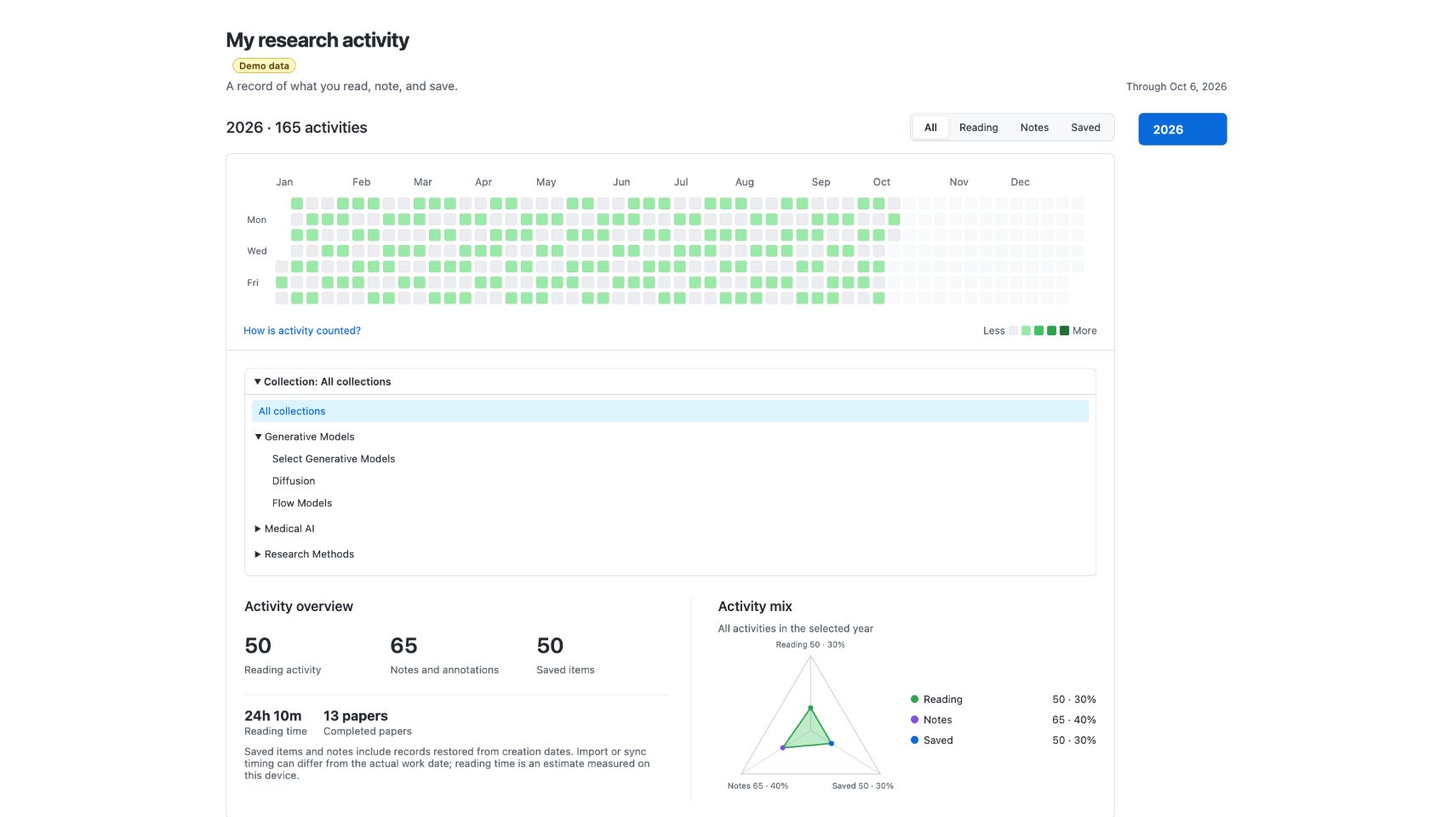
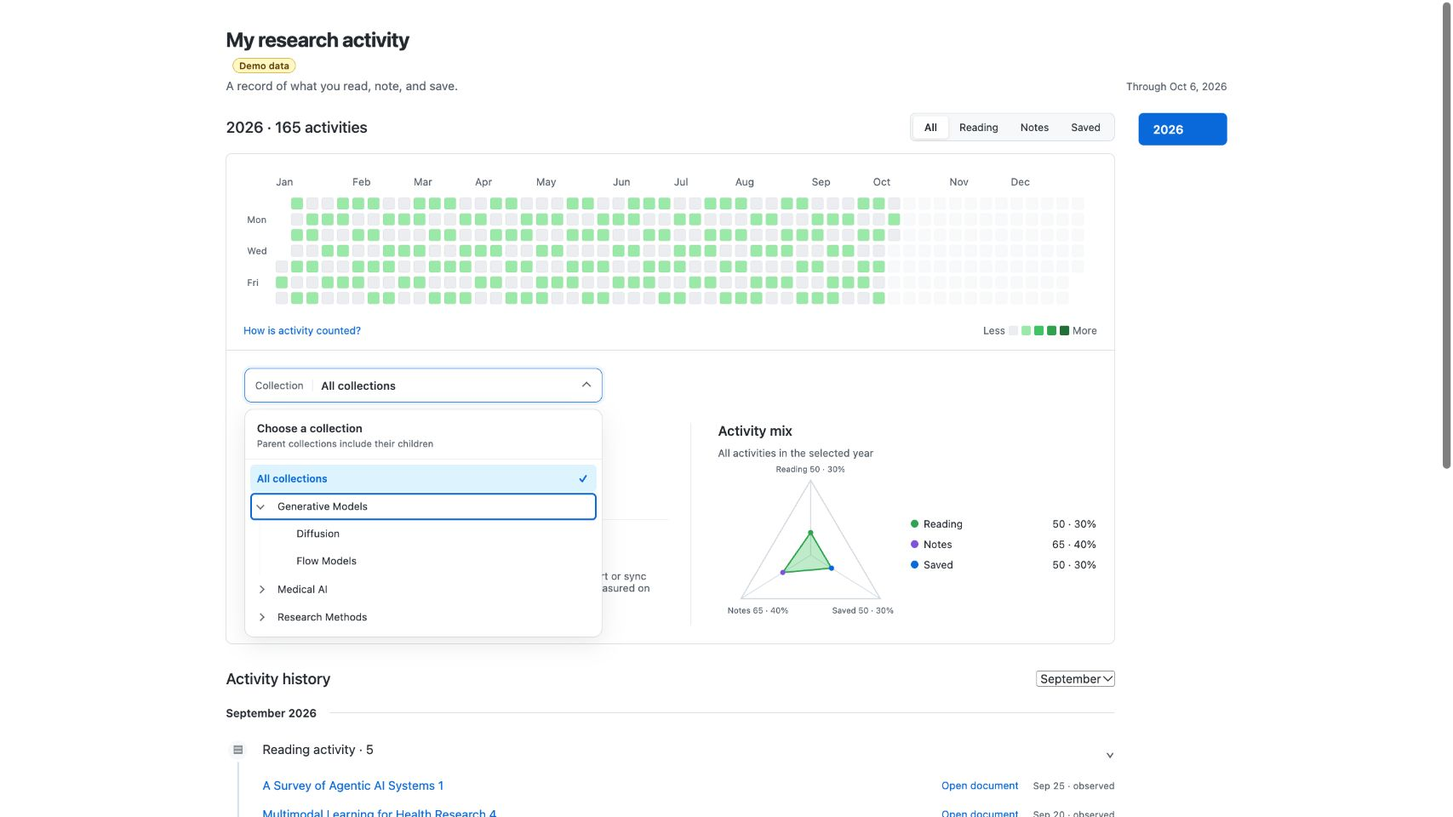
fix: refresh activity dashboard assets

diff --git a/activity.css b/activity.css
@@ -1,1 +1,28 @@
-:root{--ra-ink:#24292f;--ra-muted:#57606a;--ra-line:#d0d7de;--ra-soft:#f6f8fa;--ra-blue:#0969da;--ra-green-0:#ebedf0;--ra-green-1:#9be9a8;--ra-green-2:#40c463;--ra-green-3:#30a14e;--ra-green-4:#216e39;--ra-note:#8250df;--ra-save:#0969da}*{box-sizing:border-box}body{margin:0;background:#fff;color:var(--ra-ink);font:14px -apple-system,BlinkMacSystemFont,"Segoe UI",sans-serif}button,select{font:inherit;color:inherit;cursor:pointer}button:focus-visible,select:focus-visible,a:focus-visible{outline:3px solid var(--ra-blue);outline-offset:2px}.ra-page{max-width:1240px;margin:0 auto;padding:32px}.ra-heading{display:flex;align-items:end;justify-content:space-between;gap:20px;margin-bottom:24px}.ra-heading h1{font-size:24px;letter-spacing:-.5px;margin:0 0 7px}.ra-heading p{margin:0;color:var(--ra-muted)}.ra-layout{display:grid;grid-template-columns:minmax(0,1fr) 104px;gap:28px}.ra-topline,.ra-timeline-head{display:flex;align-items:center;justify-content:space-between;gap:16px;margin-bottom:14px}.ra-topline h2,.ra-timeline-head h2{font-size:18px;font-weight:500;margin:0}.ra-filters{display:flex;padding:3px;border:1px solid var(--ra-line);border-radius:7px;background:var(--ra-soft)}.ra-filters button{border:0;border-radius:4px;background:transparent;padding:6px 13px;font-size:12px}.ra-filters button[aria-pressed="true"]{background:#fff;box-shadow:0 1px 3px #0002;font-weight:600}.ra-panel{border:1px solid var(--ra-line);border-radius:7px;overflow:hidden}.ra-heatmap{padding:23px 20px 16px}.ra-calendar{overflow-x:auto}.ra-calendar svg{display:block;width:100%;min-width:720px}.ra-calendar-cell{cursor:pointer;stroke:#1f23280d;stroke-width:1}.ra-calendar-cell:hover,.ra-calendar-cell:focus{stroke:var(--ra-ink);stroke-width:1.5;outline:none}.ra-calendar-cell[data-selected="true"]{stroke:var(--ra-blue);stroke-width:2}.ra-calendar-cell[data-future="true"]{cursor:default;opacity:.35}.ra-legend-row{display:flex;justify-content:space-between;align-items:center;gap:10px;margin-top:13px;color:var(--ra-muted);font-size:12px}.ra-legend{display:flex;align-items:center;gap:4px;white-space:nowrap}.ra-swatch{width:11px;height:11px;border-radius:2px}.ra-link{border:0;padding:0;background:transparent;color:var(--ra-blue)}.ra-overview{border-top:1px solid var(--ra-line);padding:21px}.ra-collections{display:flex;gap:8px;flex-wrap:wrap;margin-bottom:26px}.ra-chip,.ra-button{border:1px solid var(--ra-line);border-radius:6px;background:#fff;padding:7px 11px;font-size:12px}.ra-chip[aria-pressed="true"]{border-color:var(--ra-blue);background:#ddf4ff;color:var(--ra-blue)}.ra-summary{display:grid;grid-template-columns:1.18fr 1fr;gap:32px}.ra-summary-left{border-right:1px solid var(--ra-line);padding-right:25px}.ra-summary h3{font-size:16px;font-weight:550;margin:0}.ra-stats{display:grid;grid-template-columns:repeat(3,1fr);gap:16px;margin:22px 0}.ra-stat b{display:block;font-size:25px;font-weight:600;font-variant-numeric:tabular-nums;margin-bottom:5px}.ra-stat span,.ra-small{font-size:12px;color:var(--ra-muted)}.ra-completion{display:flex;gap:19px;border-top:1px solid #eaeef2;padding-top:15px}.ra-completion b{display:block;font-size:16px}.ra-ratio-copy{margin:10px 0 0;color:var(--ra-muted);font-size:12px}.ra-triangle-wrap{display:grid;grid-template-columns:minmax(210px,1fr) minmax(160px,1fr);align-items:center;gap:9px;margin-top:4px}.ra-triangle{width:100%;max-width:275px;margin:auto}.ra-triangle text{font-size:11px;fill:var(--ra-muted)}.ra-ratio-list{display:grid;gap:10px}.ra-ratio-item{display:flex;justify-content:space-between;gap:8px;font-size:12px}.ra-ratio-item i{display:inline-block;width:9px;height:9px;border-radius:50%;margin-right:6px}.ra-years button{display:block;width:100%;border:0;border-radius:6px;background:none;text-align:left;padding:11px 17px;margin-bottom:7px;color:var(--ra-muted)}.ra-years button[aria-pressed="true"]{background:var(--ra-blue);color:#fff;font-weight:600}.ra-timeline{margin-top:30px}.ra-month{display:flex;align-items:center;gap:15px;font-size:13px;font-weight:600;margin:22px 0}.ra-month:after{content:"";height:1px;background:var(--ra-line);flex:1}.ra-event{position:relative;margin-left:13px;padding:0 0 25px 28px;border-left:2px solid #d8dee4}.ra-event-icon{position:absolute;left:-15px;top:0;width:28px;height:28px;border:3px solid #fff;border-radius:50%;background:var(--ra-soft);display:grid;place-items:center;color:var(--ra-muted)}.ra-event summary{display:flex;justify-content:space-between;gap:10px;cursor:pointer;padding-top:4px;font-size:15px;list-style:none}.ra-event summary:after{content:"⌄";font-size:18px;color:var(--ra-muted)}.ra-activity-list{margin-top:13px}.ra-activity{display:grid;grid-template-columns:minmax(0,1fr) auto auto;align-items:center;gap:14px;padding:7px 0}.ra-activity-title{border:0;background:transparent;padding:0;text-align:left;color:var(--ra-blue);white-space:nowrap;overflow:hidden;text-overflow:ellipsis}.ra-action{border:0;background:transparent;color:var(--ra-blue);font-size:12px;padding:3px}.ra-date{font-size:11px;color:var(--ra-muted);font-variant-numeric:tabular-nums}.ra-empty,.ra-error{padding:26px 0;color:var(--ra-muted)}.ra-error{color:#cf222e}.ra-error .ra-button{margin-left:12px}.ra-dialog{border:1px solid var(--ra-line);border-radius:10px;max-width:520px;padding:24px;box-shadow:0 15px 70px #0002}.ra-dialog::backdrop{background:#1f23284d}.ra-dialog h3{margin-top:0}.ra-dialog p{line-height:1.6;color:var(--ra-muted)}.ra-dialog .ra-button{float:right}.ra-tooltip{position:fixed;display:none;z-index:4;pointer-events:none;padding:8px 10px;background:#24292f;color:#fff;border-radius:6px;font-size:12px;box-shadow:0 3px 12px #0002}.ra-hidden{display:none!important}@media(max-width:900px){.ra-page{padding:22px 18px}.ra-heading{align-items:start;flex-direction:column}.ra-layout{grid-template-columns:1fr;gap:12px}.ra-years{display:flex;gap:8px;overflow-x:auto;grid-row:1}.ra-years button{width:auto;padding:8px 18px;white-space:nowrap}.ra-topline{align-items:start;flex-direction:column}.ra-summary{grid-template-columns:1fr;gap:24px}.ra-summary-left{padding:0;border-right:0}.ra-triangle-wrap{grid-template-columns:1fr}.ra-heatmap{padding:19px 13px}.ra-stats{gap:10px}.ra-calendar-cell{min-height:12px}}.ra-collection-picker{display:block;margin:0 0 26px;border:1px solid var(--ra-line);border-radius:6px;background:#fff}.ra-collection-picker>summary{padding:8px 11px;cursor:pointer;font-size:12px;font-weight:600}.ra-collection-picker>summary:focus-visible,.ra-collection-branch>summary:focus-visible{outline:3px solid var(--ra-blue);outline-offset:2px}.ra-collection-choices{max-height:280px;overflow:auto;padding:6px 8px 8px;border-top:1px solid var(--ra-line)}.ra-collection-branch{margin:4px 0}.ra-collection-branch>summary{padding:6px 4px;cursor:pointer;font-size:12px}.ra-collection-select:hover,.ra-collection-select[aria-pressed="true"]{background:#ddf4ff!important;color:var(--ra-blue)}.ra-collection-branch-content{padding-left:16px}.ra-collection-select{display:block;width:100%;border:0;border-radius:4px;background:transparent;padding:6px 8px;text-align:left;font-size:12px}.ra-collection-picker summary:focus-visible,.ra-collection-branch summary:focus-visible{outline:3px solid var(--ra-blue);outline-offset:2px}
+:root{--ra-ink:#24292f;--ra-muted:#57606a;--ra-line:#d0d7de;--ra-soft:#f6f8fa;--ra-blue:#0969da;--ra-green-0:#ebedf0;--ra-green-1:#9be9a8;--ra-green-2:#40c463;--ra-green-3:#30a14e;--ra-green-4:#216e39;--ra-note:#8250df;--ra-save:#0969da}*{box-sizing:border-box}body{margin:0;background:#fff;color:var(--ra-ink);font:14px -apple-system,BlinkMacSystemFont,"Segoe UI",sans-serif}button,select{font:inherit;color:inherit;cursor:pointer}button:focus-visible,select:focus-visible,a:focus-visible{outline:3px solid var(--ra-blue);outline-offset:2px}.ra-page{max-width:1240px;margin:0 auto;padding:32px}.ra-heading{display:flex;align-items:end;justify-content:space-between;gap:20px;margin-bottom:24px}.ra-heading h1{font-size:24px;letter-spacing:-.5px;margin:0 0 7px}.ra-heading p{margin:0;color:var(--ra-muted)}.ra-layout{display:grid;grid-template-columns:minmax(0,1fr) 104px;gap:28px}.ra-topline,.ra-timeline-head{display:flex;align-items:center;justify-content:space-between;gap:16px;margin-bottom:14px}.ra-topline h2,.ra-timeline-head h2{font-size:18px;font-weight:500;margin:0}.ra-filters{display:flex;padding:3px;border:1px solid var(--ra-line);border-radius:7px;background:var(--ra-soft)}.ra-filters button{border:0;border-radius:4px;background:transparent;padding:6px 13px;font-size:12px}.ra-filters button[aria-pressed="true"]{background:#fff;box-shadow:0 1px 3px #0002;font-weight:600}.ra-panel{border:1px solid var(--ra-line);border-radius:7px;overflow:hidden}.ra-heatmap{padding:23px 20px 16px}.ra-calendar{overflow-x:auto}.ra-calendar svg{display:block;width:100%;min-width:720px}.ra-calendar-cell{cursor:pointer;stroke:#1f23280d;stroke-width:1}.ra-calendar-cell:hover,.ra-calendar-cell:focus{stroke:var(--ra-ink);stroke-width:1.5;outline:none}.ra-calendar-cell[data-selected="true"]{stroke:var(--ra-blue);stroke-width:2}.ra-calendar-cell[data-future="true"]{cursor:default;opacity:.35}.ra-legend-row{display:flex;justify-content:space-between;align-items:center;gap:10px;margin-top:13px;color:var(--ra-muted);font-size:12px}.ra-legend{display:flex;align-items:center;gap:4px;white-space:nowrap}.ra-swatch{width:11px;height:11px;border-radius:2px}.ra-link{border:0;padding:0;background:transparent;color:var(--ra-blue)}.ra-overview{border-top:1px solid var(--ra-line);padding:21px}.ra-collections{display:flex;gap:8px;flex-wrap:wrap;margin-bottom:26px}.ra-chip,.ra-button{border:1px solid var(--ra-line);border-radius:6px;background:#fff;padding:7px 11px;font-size:12px}.ra-chip[aria-pressed="true"]{border-color:var(--ra-blue);background:#ddf4ff;color:var(--ra-blue)}.ra-summary{display:grid;grid-template-columns:1.18fr 1fr;gap:32px}.ra-summary-left{border-right:1px solid var(--ra-line);padding-right:25px}.ra-summary h3{font-size:16px;font-weight:550;margin:0}.ra-stats{display:grid;grid-template-columns:repeat(3,1fr);gap:16px;margin:22px 0}.ra-stat b{display:block;font-size:25px;font-weight:600;font-variant-numeric:tabular-nums;margin-bottom:5px}.ra-stat span,.ra-small{font-size:12px;color:var(--ra-muted)}.ra-completion{display:flex;gap:19px;border-top:1px solid #eaeef2;padding-top:15px}.ra-completion b{display:block;font-size:16px}.ra-ratio-copy{margin:10px 0 0;color:var(--ra-muted);font-size:12px}.ra-triangle-wrap{display:grid;grid-template-columns:minmax(210px,1fr) minmax(160px,1fr);align-items:center;gap:9px;margin-top:4px}.ra-triangle{width:100%;max-width:275px;margin:auto}.ra-triangle text{font-size:11px;fill:var(--ra-muted)}.ra-ratio-list{display:grid;gap:10px}.ra-ratio-item{display:flex;justify-content:space-between;gap:8px;font-size:12px}.ra-ratio-item i{display:inline-block;width:9px;height:9px;border-radius:50%;margin-right:6px}.ra-years button{display:block;width:100%;border:0;border-radius:6px;background:none;text-align:left;padding:11px 17px;margin-bottom:7px;color:var(--ra-muted)}.ra-years button[aria-pressed="true"]{background:var(--ra-blue);color:#fff;font-weight:600}.ra-timeline{margin-top:30px}.ra-month{display:flex;align-items:center;gap:15px;font-size:13px;font-weight:600;margin:22px 0}.ra-month:after{content:"";height:1px;background:var(--ra-line);flex:1}.ra-event{position:relative;margin-left:13px;padding:0 0 25px 28px;border-left:2px solid #d8dee4}.ra-event-icon{position:absolute;left:-15px;top:0;width:28px;height:28px;border:3px solid #fff;border-radius:50%;background:var(--ra-soft);display:grid;place-items:center;color:var(--ra-muted)}.ra-event summary{display:flex;justify-content:space-between;gap:10px;cursor:pointer;padding-top:4px;font-size:15px;list-style:none}.ra-event summary:after{content:"⌄";font-size:18px;color:var(--ra-muted)}.ra-activity-list{margin-top:13px}.ra-activity{display:grid;grid-template-columns:minmax(0,1fr) auto auto;align-items:center;gap:14px;padding:7px 0}.ra-activity-title{border:0;background:transparent;padding:0;text-align:left;color:var(--ra-blue);white-space:nowrap;overflow:hidden;text-overflow:ellipsis}.ra-action{border:0;background:transparent;color:var(--ra-blue);font-size:12px;padding:3px}.ra-date{font-size:11px;color:var(--ra-muted);font-variant-numeric:tabular-nums}.ra-empty,.ra-error{padding:26px 0;color:var(--ra-muted)}.ra-error{color:#cf222e}.ra-error .ra-button{margin-left:12px}.ra-dialog{border:1px solid var(--ra-line);border-radius:10px;max-width:520px;padding:24px;box-shadow:0 15px 70px #0002}.ra-dialog::backdrop{background:#1f23284d}.ra-dialog h3{margin-top:0}.ra-dialog p{line-height:1.6;color:var(--ra-muted)}.ra-dialog .ra-button{float:right}.ra-tooltip{position:fixed;display:none;z-index:4;pointer-events:none;padding:8px 10px;background:#24292f;color:#fff;border-radius:6px;font-size:12px;box-shadow:0 3px 12px #0002}.ra-hidden{display:none!important}@media(max-width:900px){.ra-page{padding:22px 18px}.ra-heading{align-items:start;flex-direction:column}.ra-layout{grid-template-columns:1fr;gap:12px}.ra-years{display:flex;gap:8px;overflow-x:auto;grid-row:1}.ra-years button{width:auto;padding:8px 18px;white-space:nowrap}.ra-topline{align-items:start;flex-direction:column}.ra-summary{grid-template-columns:1fr;gap:24px}.ra-summary-left{padding:0;border-right:0}.ra-triangle-wrap{grid-template-columns:1fr}.ra-heatmap{padding:19px 13px}.ra-stats{gap:10px}.ra-calendar-cell{min-height:12px}}
+/* Collection filter: compact trigger and a bounded, indented menu. */
+.ra-panel:has(.ra-collection-picker[open]){overflow:visible}
+.ra-collection-picker{position:relative;width:min(420px,100%);margin:0 0 24px;font-size:13px}
+.ra-collection-trigger{display:flex;align-items:center;gap:10px;min-height:40px;padding:9px 12px;border:1px solid var(--ra-line);border-radius:8px;background:#fff;cursor:pointer;list-style:none;box-shadow:0 1px 2px #1f232808}
+.ra-collection-trigger::-webkit-details-marker,.ra-collection-branch>summary::-webkit-details-marker{display:none}
+.ra-collection-caption{font-size:12px;color:var(--ra-muted);padding-right:10px;border-right:1px solid var(--ra-line)}
+.ra-collection-value{font-weight:550;overflow:hidden;white-space:nowrap;text-overflow:ellipsis;flex:1}
+.ra-collection-trigger:after{content:"";width:6px;height:6px;border-right:1.5px solid var(--ra-muted);border-bottom:1.5px solid var(--ra-muted);transform:rotate(45deg);margin:0 2px 4px 4px}
+.ra-collection-picker[open]>.ra-collection-trigger{border-color:var(--ra-blue);box-shadow:0 0 0 3px #0969da12}
+.ra-collection-picker[open]>.ra-collection-trigger:after{transform:rotate(225deg);margin-top:5px}
+.ra-collection-menu{position:absolute;top:calc(100% + 8px);left:0;width:100%;z-index:10;background:#fff;border:1px solid var(--ra-line);border-radius:10px;box-shadow:0 8px 28px #1f23281a;overflow:hidden}
+.ra-collection-menu-heading{display:grid;gap:4px;padding:14px 14px 12px;border-bottom:1px solid #eaeef2}
+.ra-collection-menu-heading strong{font-size:13px;font-weight:600}
+.ra-collection-menu-heading span{font-size:11px;color:var(--ra-muted)}
+.ra-collection-choices{max-height:280px;overflow:auto;padding:6px;overscroll-behavior:contain}
+.ra-collection-select{display:block;position:relative;width:100%;min-height:32px;border:0;border-radius:5px;background:transparent;padding:7px 30px 7px 8px;text-align:left;font-size:12px;line-height:18px;overflow-wrap:anywhere;box-shadow:none;appearance:none}
+.ra-collection-select:hover{background:var(--ra-soft)}
+.ra-collection-select[aria-pressed="true"]{background:#ddf4ff;color:var(--ra-blue);font-weight:600}
+.ra-collection-select[aria-pressed="true"]:after{content:"✓";position:absolute;right:10px;font-weight:700}
+.ra-collection-branch{margin:1px 0}
+.ra-collection-branch>summary{display:flex;align-items:center;list-style:none;cursor:pointer;border-radius:5px}
+.ra-collection-branch>summary:before{content:"";flex:none;width:5px;height:5px;border-right:1.5px solid var(--ra-muted);border-bottom:1.5px solid var(--ra-muted);transform:rotate(-45deg);margin:0 9px 0 9px}
+.ra-collection-branch[open]>summary:before{transform:rotate(45deg);margin-top:-3px}
+.ra-collection-branch>summary>.ra-collection-select{flex:1;min-width:0}
+.ra-collection-branch-content{margin-left:11px;padding-left:11px;border-left:1px solid #eaeef2}
+.ra-collection-leaf{padding-left:24px}
+.ra-collection-trigger:focus-visible,.ra-collection-branch>summary:focus-visible,.ra-collection-select:focus-visible{outline:2px solid var(--ra-blue);outline-offset:-2px}

diff --git a/activityView.js b/activityView.js
@@ -310,26 +310,45 @@
     }
     function buildCollectionPicker() {
         var picker = node("details", { class: "ra-collection-picker", open: viewMemory.collectionPickerOpen, "data-collection-picker": "true" });
-        picker.appendChild(node("summary", {}, "Collection: " + collectionPath(state.collection)));
+        var trigger = node("summary", { class: "ra-collection-trigger", "aria-label": "Choose collection" });
+        trigger.appendChild(node("span", { class: "ra-collection-caption" }, "Collection"));
+        trigger.appendChild(node("span", { class: "ra-collection-value", title: collectionPath(state.collection) }, collectionPath(state.collection)));
+        picker.appendChild(trigger);
+        var menu = node("div", { class: "ra-collection-menu" });
+        var heading = node("div", { class: "ra-collection-menu-heading" });
+        heading.appendChild(node("strong", {}, "Choose a collection"));
+        heading.appendChild(node("span", {}, "Parent collections include their children"));
+        menu.appendChild(heading);
         var choices = node("div", { class: "ra-collection-choices", "aria-label": "Collection picker" });
-        appendButton(choices, "All collections", { class: "ra-collection-select", "aria-pressed": state.collection === "all" }, function () { chooseCollection("all"); });
+        function selectButton(container, collection) {
+            appendButton(container, collection.name, { class: "ra-collection-select", "aria-pressed": state.collection === collection.key }, function (event) {
+                event.preventDefault(); event.stopPropagation(); chooseCollection(collection.key);
+                root.querySelector(".ra-collection-trigger").focus();
+            });
+        }
+        selectButton(choices, { key: "all", name: "All collections" });
         var tree = collectionTree(), ancestors = collectionAncestors(state.collection);
         function appendBranch(container, collection) {
             var childItems = tree.children[collection.key] || [];
             if (!childItems.length) {
-                appendButton(container, collection.name || collection.key, { class: "ra-collection-select", "aria-pressed": state.collection === collection.key }, function () { chooseCollection(collection.key); });
-                return;
+                var leaf = node("div", { class: "ra-collection-leaf" });
+                selectButton(leaf, { key: collection.key, name: collection.name || collection.key });
+                container.appendChild(leaf); return;
             }
             var open = ancestors[collection.key] || viewMemory.collectionBranches[collection.key];
             var details = node("details", { class: "ra-collection-branch", open: !!open, "data-collection-branch": collection.key });
-            details.appendChild(node("summary", {}, collection.name || collection.key));
+            var row = node("summary", { "aria-label": "Expand " + (collection.name || collection.key) });
+            selectButton(row, { key: collection.key, name: collection.name || collection.key });
+            details.appendChild(row);
             var content = node("div", { class: "ra-collection-branch-content" });
-            appendButton(content, "Select " + (collection.name || collection.key), { class: "ra-collection-select", "aria-pressed": state.collection === collection.key }, function () { chooseCollection(collection.key); });
             childItems.forEach(function (child) { appendBranch(content, child); });
             details.appendChild(content); container.appendChild(details);
         }
         tree.roots.forEach(function (collection) { appendBranch(choices, collection); });
-        picker.appendChild(choices);
+        menu.appendChild(choices); picker.appendChild(menu);
+        picker.addEventListener("keydown", function (event) {
+            if (event.key === "Escape") { picker.open = false; trigger.focus(); event.stopPropagation(); }
+        });
         return picker;
     }
     function buildTriangle(counts) {
@@ -419,6 +438,10 @@
         layout.appendChild(main);
         var yearBox = node("aside", { class: "ra-years", "aria-label": "Year selection" }); buildYears(yearBox); layout.appendChild(yearBox);
         page.appendChild(layout); root.appendChild(page); ensureOverlay();
+        page.addEventListener("click", function (event) {
+            var picker = page.querySelector(".ra-collection-picker");
+            if (picker && !picker.contains(event.target)) picker.open = false;
+        });
         if (document.scrollingElement) document.scrollingElement.scrollTop = viewMemory.scrollTop;
     }
     function formatTime(seconds) { var minutes = Math.round(number(seconds) / 60); return minutes >= 60 ? Math.floor(minutes / 60) + "h " + (minutes % 60) + "m" : minutes + "m"; }

diff --git a/activityRuntime.js b/activityRuntime.js
@@ -4,9 +4,10 @@ var ResearchActivity = {
     store: null, snapshot: null, error: null, running: false,
     _saveQueue: Promise.resolve(), _refreshQueue: Promise.resolve(),
 
-    async init({ id, rootURI }) {
+    async init({ id, version, rootURI }) {
         this.id = id;
         this.rootURI = rootURI;
+        this.version = version;
         this.chromeHandle = Cc['@mozilla.org/addons/addon-manager-startup;1']
             .getService(Ci.amIAddonManagerStartup).registerChrome(
                 Services.io.newURI(rootURI + 'manifest.json'),
@@ -293,7 +294,7 @@ var ResearchActivity = {
             } catch (e) { Zotero.logError(e); }
             await this.refresh();
         }, true);
-        frame.src = 'chrome://research-activity/content/activity.html';
+        frame.src = 'chrome://research-activity/content/activity.html?v=' + encodeURIComponent(this.version);
         container.appendChild(frame);
         return id;
     },

diff --git a/bootstrap.js b/bootstrap.js
@@ -24,7 +24,7 @@ async function startup({ id, version, rootURI }) {
     await Zotero.uiReadyPromise;
     await ZoteroReadTracker.registerColumn();
     Zotero.ResearchActivity = ResearchActivity;
-    await ResearchActivity.init({ id, rootURI });
+    await ResearchActivity.init({ id, version, rootURI });
 
     var windows = Zotero.getMainWindows();
     for (var i = 0; i < windows.length; i++) {

diff --git a/scripts/package.py b/scripts/package.py
@@ -1,15 +1,29 @@
 """Build a dependency-free XPI with an explicit runtime-file allowlist."""
 from pathlib import Path
-import json,sys,zipfile
+import hashlib,json,sys,zipfile
 root=Path(__file__).resolve().parent.parent
 output=Path(sys.argv[1]) if len(sys.argv)>1 else root/'dist'/'ZoteroResearchActivity.xpi'
 output.parent.mkdir(parents=True,exist_ok=True)
 files=['manifest.json','bootstrap.js','readTracker.js','heatmapBuilder.js','activityModel.js','activityRuntime.js','activity.html','activity.css','activityView.js','LICENSE']
 with zipfile.ZipFile(output,'w',zipfile.ZIP_DEFLATED) as archive:
- for name in files:archive.write(root/name,name)
+ for name in files:
+  data=(root/name).read_bytes()
+  if name=='activity.html':
+   html=data.decode()
+   for asset in ['activity.css','activityView.js']:
+    digest=hashlib.sha256((root/asset).read_bytes()).hexdigest()[:12]
+    html=html.replace('"'+asset+'"','"'+asset+'?v='+digest+'"')
+   data=html.encode()
+  info=zipfile.ZipInfo(name,(2026,1,1,0,0,0))
+  info.compress_type=zipfile.ZIP_DEFLATED
+  archive.writestr(info,data)
 with zipfile.ZipFile(output) as archive:
  assert archive.testzip() is None
  assert set(archive.namelist())==set(files)
+ html=archive.read('activity.html').decode()
+ for asset in ['activity.css','activityView.js']:
+  digest=hashlib.sha256(archive.read(asset)).hexdigest()[:12]
+  assert asset+'?v='+digest in html, 'Missing asset cache key: '+asset
  manifest=json.loads(archive.read('manifest.json'))
  assert manifest['applications']['zotero']['id']=='research-activity@kimyeonghyeon'
 print(output.resolve())

diff --git a/VALIDATION.md b/VALIDATION.md
@@ -10,6 +10,8 @@ The 0.2.1 English release was also installed and opened in the actual Zotero pro
 
 The **0.2.2 collection picker** was checked in the desktop demo: it starts collapsed, expands parent collections, shows the selected full path, and collapses after selection. Selecting the demo child showed 30 activities; selecting its parent included both children and showed 60. Public assets were audited against the GitHub tree and contain synthetic data only.
 
+The **0.2.3 design and update fix** was inspected in the actual Zotero 10.0.5 window after upgrading from 0.2.2. The compact trigger, styled menu rows, selected state, and bounded dropdown rendered correctly. Desktop browser interactions confirmed child and parent filtering, automatic closing, and Escape.
+
 ## Results
 
 | Check | Result | Observed evidence |
@@ -32,6 +34,8 @@ The **0.2.2 collection picker** was checked in the desktop demo: it starts colla
 | Midnight, sleep, and DST | PASS (unit checks) | Local-midnight splitting, DST elapsed time, and exclusion of timer gaps over 10 seconds were checked. Actual OS sleep was not executed. |
 
 ## Corrections made during validation
+
+- The 0.2.2 hierarchy appeared without its new stylesheet in the actual app after a hot update. Browser screenshots and an accessibility-tree check had missed this rendering failure. Versioned document URLs and content-hashed CSS/JS URLs in the packaged HTML now invalidate those caches; the 0.2.3 installed app was checked visually after upgrade.
 
 - Attached the initial internal-frame load handler in the capture phase so page buttons could reach Zotero; navigation and persisted selection were rechecked.
 - Corrected boolean handling for month options and `details`, plus ratio rounding that previously gave every empty category 1%.

diff --git a/README.md b/README.md
@@ -1,4 +1,4 @@
-# Zotero Research Activity · v0.2.2
+# Zotero Research Activity · v0.2.3
 
 **A private, GitHub-style activity page for your Zotero library.**
 
@@ -30,7 +30,7 @@ The activity page opens inside Zotero. Reopening it selects the existing tab.
 
 ## Collection navigation
 
-The picker starts collapsed. Expand a parent to browse its children, or choose **Select parent name** to include the whole branch. Choosing a collection closes the picker and shows its full path.
+The picker starts collapsed. Use the arrow to expand a parent, or click its name to select the whole branch. Choosing a collection closes the menu and shows its full path. The menu has consistent rows, a selected checkmark, a bounded scroll area, and keyboard support.
 
 ![Hierarchical collection picker with demo data](assets/research-activity-collections.png)
 
